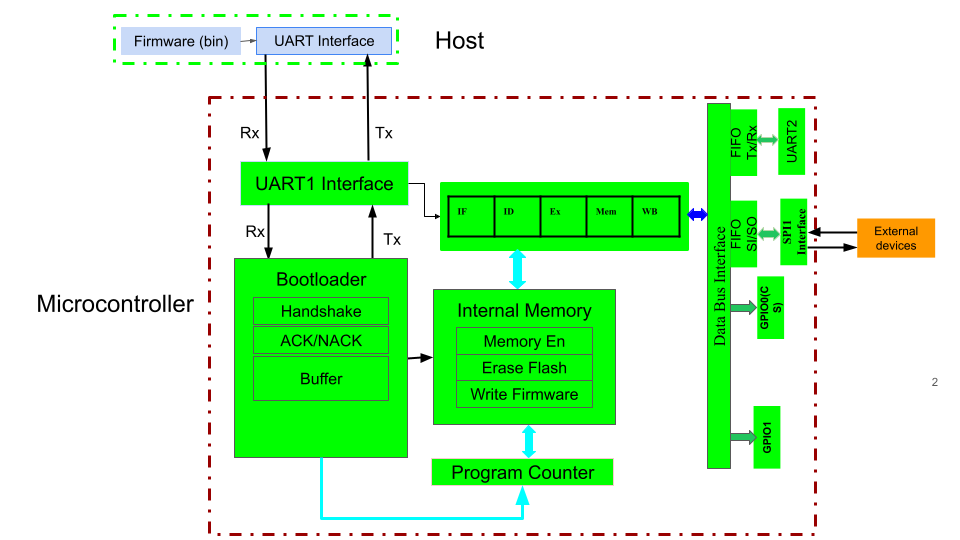
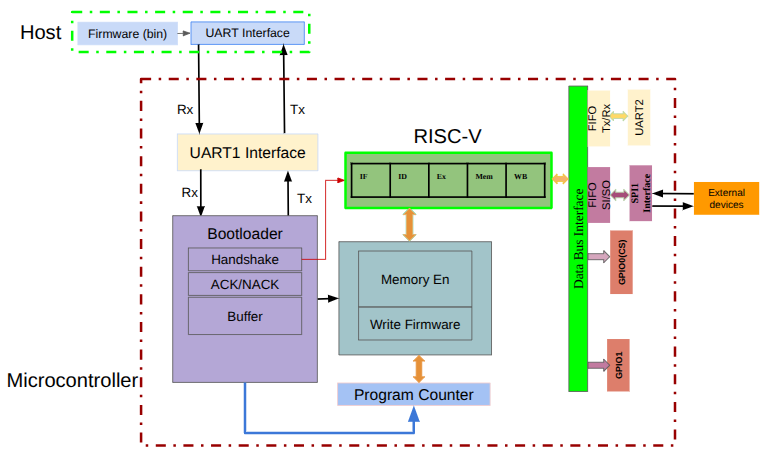
Correct SPI DIV CLK AND BLOCK DIAGRAM

diff --git a/test/test.py b/test/test.py
@@ -181,7 +181,7 @@ async def uart_spi_test(dut):
 
     # SPI response
     # Use triple quotes to handle internal quotes like "Munal"
-    text_data = """Namaste everyone from Nepal! Tiny Tapeout enables low-cost custom chip design by combining multiple open-source projects into one silicon chip, great for students and hobbyists***S**M**I**L**E************"""
+    text_data = """Namaste everyone from Nepal! Tiny Tapeout enables low-cost custom chip design by combining multiple open-source projects into one silicon chip, great for students and hobbyists********S**M**I**L**E******A**L**W**A**Y**s*******"""
     
     slave_tx = [ord(c) for c in text_data]
 